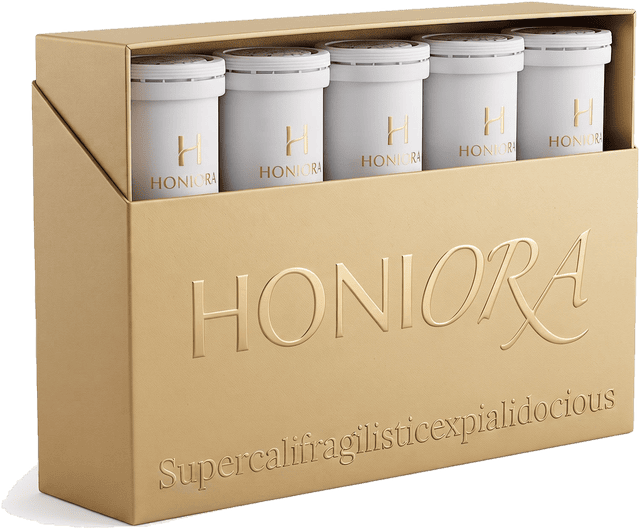
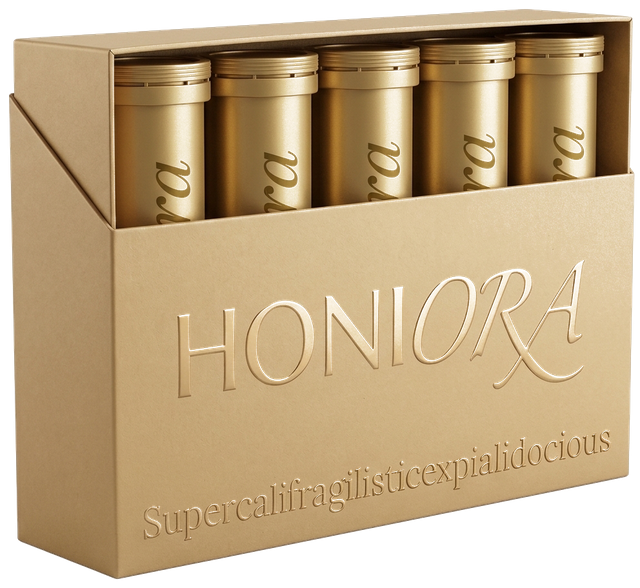
Add files via upload

diff --git a/index.html b/index.html
@@ -1566,7 +1566,7 @@ footer{background:var(--paper);border-top:1px solid var(--line);padding:70px 0 4
       <div class="iband-vp">
         <div class="iband-track" id="ibandTrack">
           <div class="ishot"><figure><picture class="ishot-pic"><source media="(max-width:1000px)" srcset="creatine_HCL-lite.jpg"><img width="820" height="820" src="creatine_HCL.jpg" alt="Cr-01 creatine crystals" loading="lazy"></picture><figcaption class="icap"><b>Cr-01 Creatine</b><s>5,000 mg</s><i>Creatine rapidly regenerates ATP through the phosphocreatine system, your cells' basic energy currency, supporting muscle strength and healthy aging. Sourced as Jenerise Cr.01, third-party verified by SGS at 99.96% purity.</i></figcaption></figure></div>
-          <div class="ishot"><figure><picture class="ishot-pic"><source media="(max-width:1000px)" srcset="manuka_crystal-lite.jpg"><img width="820" height="820" src="manuka_crystal.jpg" alt="MGO 850+ Manuka honey crystals" loading="lazy"></picture><figcaption class="icap"><b>MGO 850+ M&#257;nuka / Fiberest<sup class="rn">&reg;</sup> HF</b><s>1,500 mg</s><i>The M&#257;nuka honey clears and the gluten free fibre rebuilds: clinical grade Methylglyoxal MGO 850+ M&#257;nuka selectively clears gut pathogens &amp; Fiberest<sup class="rn">&reg;</sup> HF fibre matrix substrate feeds your beneficial gut barrier microbes.</i></figcaption></figure></div>
+          <div class="ishot"><figure><picture class="ishot-pic"><source media="(max-width:1000px)" srcset="manuka_crystal-lite.jpg"><img width="820" height="820" src="manuka_crystal.jpg" alt="MGO 850+ Manuka honey crystals" loading="lazy"></picture><figcaption class="icap"><b>MGO 850+ M&#257;nuka / Fiberest<sup class="rn">&reg;</sup> HF Crystals</b><s>1,500 mg</s><i>The M&#257;nuka honey clears and the gluten free fibre rebuilds: clinical grade Methylglyoxal MGO 850+ M&#257;nuka selectively clears gut pathogens &amp; Fiberest<sup class="rn">&reg;</sup> HF high fibre matrix substrate feeds your beneficial gut barrier microbes.</i></figcaption></figure></div>
           <div class="ishot"><figure><picture class="ishot-pic"><source media="(max-width:1000px)" srcset="livaux_gold_kiwi-lite.jpg"><img width="820" height="820" src="livaux_gold_kiwi.jpg" alt="Livaux gold kiwifruit" loading="lazy"></picture><figcaption class="icap"><b>Livaux<sup class="rn">&reg;</sup> Gold Kiwifruit</b><s>1,000 mg</s><i>Doubles <em>F. prausnitzii</em> in your gut within 28 days. A pectin matrix carrying 41 phenolics, fermented slowly.</i></figcaption></figure></div>
           <div class="ishot"><figure><picture class="ishot-pic"><source media="(max-width:1000px)" srcset="feijoa-lite.jpg"><img width="820" height="820" src="feijoa.jpg" alt="Feiolix feijoa" loading="lazy"></picture><figcaption class="icap"><b>Feiolix<sup class="rn">&reg;</sup> Feijoa</b><s>1,000 mg</s><i>Two routes to your own GLP-1: abscisic acid acting on gut L-cells, and a shift in the gut bacteria that prompt the same release. Feijoa (Pineapple Guava) is a delicious fruit with cult status in New Zealand.</i></figcaption></figure></div>
           <div class="ishot"><figure><picture class="ishot-pic"><source media="(max-width:1000px)" srcset="eriomin_lemon-lite.jpg"><img width="820" height="820" src="eriomin_lemon.jpg" alt="Eriomin lemon flavonoid extract" loading="lazy"></picture><figcaption class="icap"><b>Eriomin<sup class="rn">&reg;</sup> Lemon Flavonoid</b><s>200 mg</s><i>A standardised eriocitrin extract working a second, separate pathway onto your own GLP-1. Clinical trials at this same 200&nbsp;mg/day dose raised GLP-1 and lowered hyperglycemia, inflammation and improved gut microbiota in people with prediabetes.</i></figcaption></figure></div>
@@ -1949,8 +1949,8 @@ footer{background:var(--paper);border-top:1px solid var(--line);padding:70px 0 4
   <div class="wrap">
     <div class="sec-head rv">
       <p class="eyebrow dim">07 / Function</p>
-      <h2 class="serif">Fast-dissolving, <em>easy to absorb.</em></h2>
-      <p class="lede">The 2 HONI<i>ORA</i> tablets completely dissolve in your water, creating a delicious, slightly hypotonic drink, so your gut absorbs the actives quickly and they reach your bloodstream.</p>
+      <h2 class="serif">Fast-dissolving, <br><em>Easy to absorb.</em><br></h2>
+      <p class="lede">The 2 HONI<i>ORA</i> tablets completely dissolve in 300ml water, <br>creating a delicious, potent, and invigorating hypotonic solution, <br>that is kind on and supports your gut <br>allowing absorption of all the actives to quickly reach your bloodstream.</p>
     </div>
     <div class="pillars rv">
       <div class="pillar">

diff --git a/README.md b/README.md
@@ -13,9 +13,16 @@ For GitHub Pages specifically: commit the folder as-is, flat, to the repo (or th
 
 ## Version
 
-This package is HONIORA_site_v263, updated 2026-09-06. Swapped the store section's two plan cards so Single Pack sits on the left (top, on lite) and Monthly Protocol is on the right (below, on lite).
+This package is HONIORA_site_v265, updated 2026-09-06. Replaced the store-section hero pack photo with the new gold-tube box shot.
 
 Recent changes in this version:
+- Replaced `hero-packshot-cutout.png` and `hero-packshot-cutout-lite.png` (the 5-tube gift box photo at the top of the store section) with the new supplied photo: gold box, all 5 gold tubes, HONIORA embossed on the box front. Background removed and edges feathered to match the site's existing transparent-cutout product shots, so it sits directly on the section's cream background with the same soft shadow look as before, no white box around it. Checked on desktop (1440px) and mobile (390px): clean edges, no overflow, matches the surrounding layout. Note: the box front photo includes "Supercalifragilisticexpialidocious" beneath the HONIORA logo, shipped as supplied at your request.
+
+v264 changes:
+- 07 Function section rewritten with line breaks: heading now reads "Fast-dissolving, / Easy to absorb." (each half on its own line, "Easy" capitalized). Body copy rewritten to "The 2 HONIORA tablets completely dissolve in 300ml water, / creating a delicious, potent, and invigorating hypotonic solution, / that is kind on and supports your gut / allowing absorption of all the actives to quickly reach your bloodstream." across four lines. Checked at 390px, 768px, and 1440px: no overflow, all four lines wrap cleanly.
+- Updated the MGO 850+ Mānuka / Fiberest® HF ingredient caption (the one above the manuka crystal photo): heading now reads "Fiberest® HF Crystals" (was "Fiberest® HF"), and the body sentence now reads "Fiberest® HF high fibre matrix substrate" (was "Fiberest® HF fibre matrix substrate", added "high").
+
+v263 changes:
 - Swapped the DOM order of the two plan cards in the store section: Single Pack now comes first (desktop: left column; lite: top of the stack), Monthly Protocol second (desktop: right column; lite: below). Previously Monthly Protocol led on both. Also removed the old `.plan.feature{order:-1}` rule that force-pinned Monthly Protocol to the top of the stacked lite view regardless of markup order — with Single Pack now leading in the markup, that rule would have silently put Monthly Protocol back on top on lite only, undoing the swap there while desktop showed it correctly. Both breakpoints now follow the same order. Checked at 390px and 1440px: Single Pack leads at both.
 
 Recent changes in v262:
